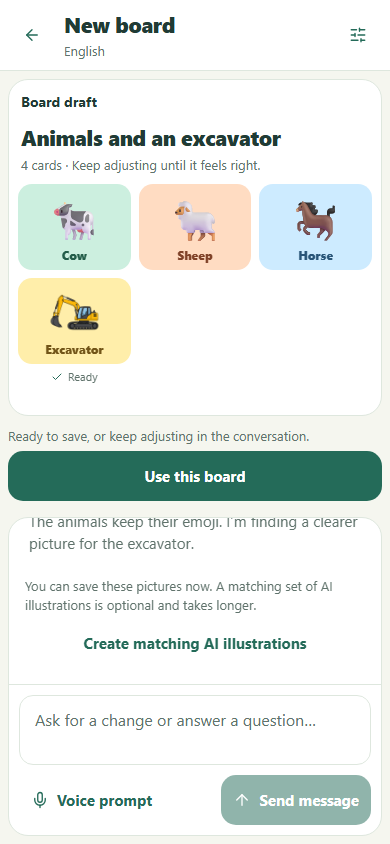
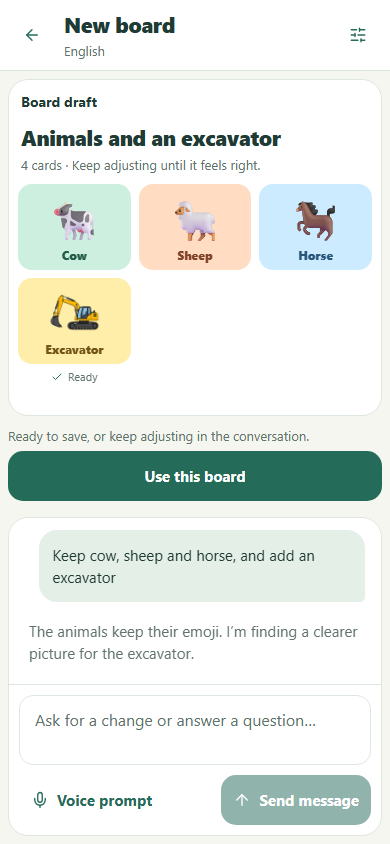
Let complete board drafts stand without AI illustration suggestions

Changed region(s): [[0.0615, 0.6161, 0.9538, 0.8009]]

diff --git a/tests/web/pictures.spec.ts b/tests/web/pictures.spec.ts
@@ -40,7 +40,26 @@ async function mockPictures(page: Page, pending = false) {
 }
 test.beforeEach(async ({ page }) => { await openExistingLibrary(page); });
 
-test('Automatic fills only a gap and offers matching illustrations after the board is ready', async ({ page }) => {
+test('a complete emoji board is ready to save without suggesting AI illustrations', async ({ page }) => {
+  const { jobs } = await mockPictures(page);
+  const proposal = draft();
+  const animals = ['Cow', 'Sheep', 'Horse', 'Pig', 'Chicken', 'Goat'];
+  proposal.proposal.title = 'Farm animals';
+  proposal.proposal.tiles = proposal.proposal.tiles.map((tile, index) => ({ ...tile, label: animals[index], speech: animals[index], emoji: ['🐄', '🐑', '🐎', '🐖', '🐔', '🐐'][index] }));
+  await page.route('**/api/boards/propose', route => route.fulfill({ json: proposal }));
+  await page.route('**/api/pictures/analyze', route => { const input = route.request().postDataJSON(); return route.fulfill({ json: { tiles: input.tiles.map((tile: any) => ({ id: tile.id, emoji: tile.emoji, concept: { description: tile.label, features: [], searchTerms: [tile.label], emojiAccurate: true } })) } }); });
+  await page.getByRole('button', { name: 'New board', exact: true }).click();
+  await page.getByRole('textbox', { name: 'Message to AI', exact: true }).fill('Six farm animals');
+  await page.getByRole('button', { name: 'Send message', exact: true }).click();
+  await expect(page.getByRole('button', { name: 'Use this board', exact: true })).toBeEnabled();
+  await expect(page.getByRole('button', { name: 'Create matching AI illustrations', exact: true })).toHaveCount(0);
+  await expect(page.getByText(/A matching set of AI illustrations/)).toHaveCount(0);
+  expect(jobs).toHaveLength(0);
+  await page.getByRole('button', { name: 'Use this board', exact: true }).click();
+  expect((await library(page)).boards.at(-1).tiles.map((tile: any) => tile.label)).toEqual(animals);
+});
+
+test('Automatic fills only a gap and illustration changes remain available in Picture settings', async ({ page }) => {
   const { jobs } = await mockPictures(page);
   const proposal = draft();
   proposal.proposal.tiles = proposal.proposal.tiles.slice(0, 3).map((tile, index) => ({ ...tile, label: ['Cow', 'Sheep', 'Excavator'][index], speech: ['Cow', 'Sheep', 'Excavator'][index], emoji: ['🐄', '🐑', '🚜'][index] }));
@@ -53,6 +72,13 @@ test('Automatic fills only a gap and offers matching illustrations after the boa
   expect(jobs.map(job => job.concept.description)).toEqual(['Excavator']);
   await expect(page.getByTestId('ai-draft').getByTestId('card-picture')).toHaveCount(1);
   await expect(page.getByTestId('ai-draft')).toContainText('🐄');
+  await expect(page.getByRole('button', { name: 'Create matching AI illustrations', exact: true })).toHaveCount(0);
+  const requestIllustrations = async () => {
+    await page.getByRole('button', { name: 'Picture settings', exact: true }).click();
+    await page.getByRole('button', { name: 'Picture source: Automatic', exact: true }).click();
+    await page.getByRole('button', { name: 'AI illustrations', exact: true }).click();
+    await page.getByRole('button', { name: 'Update draft pictures', exact: true }).click();
+  };
   const held = new Map<string, PictureJobRequest>();
   const hold = async (route: import('@playwright/test').Route) => {
     const job = route.request().postDataJSON();
@@ -66,7 +92,7 @@ test('Automatic fills only a gap and offers matching illustrations after the boa
   };
   await page.route('**/api/pictures/jobs', hold);
   await page.route('**/api/pictures/jobs/*', poll);
-  await page.getByRole('button', { name: 'Create matching AI illustrations', exact: true }).click();
+  await requestIllustrations();
   await expect(page.getByText('Generating illustration', { exact: true }).first()).toBeVisible();
   await expect(page.getByTestId('ai-draft').getByTestId('card-picture')).toHaveCount(1);
   await page.getByRole('button', { name: 'Stop request', exact: true }).click();
@@ -74,7 +100,7 @@ test('Automatic fills only a gap and offers matching illustrations after the boa
   await expect(page.getByTestId('ai-draft').getByTestId('card-picture')).toHaveCount(1);
   await page.unroute('**/api/pictures/jobs', hold);
   await page.unroute('**/api/pictures/jobs/*', poll);
-  await page.getByRole('button', { name: 'Create matching AI illustrations', exact: true }).click();
+  await requestIllustrations();
   await expect(page.getByRole('button', { name: 'Use this board', exact: true })).toBeEnabled();
   expect(jobs.slice(1).map(job => job.mode)).toEqual(['generated', 'generated', 'generated']);
   await expect(page.getByTestId('ai-draft').getByTestId('card-picture')).toHaveCount(3);

diff --git a/scripts/capture-creation-entry-evidence.ts b/scripts/capture-creation-entry-evidence.ts
@@ -37,7 +37,9 @@ try {
     let turns = 0;
     await page.route('**/api/boards/propose', route => {
       const added = ++turns > 1;
-      return route.fulfill({ json: { boardId: null, baseRevision: null, proposal: { title: added ? 'Animals and an excavator' : 'Farm animals', explanation: added ? 'The animals keep their emoji. I’m finding a clearer picture for the excavator.' : 'Here are three farm animals.', needsClarification: false, picturePolicy: { mode: 'auto', style: 'color', consistent: true }, tiles: (added ? ['Cow', 'Sheep', 'Horse', 'Excavator'] : ['Cow', 'Sheep', 'Horse']).map((label, index) => ({ existingId: null, label, speech: label, language: 'en-US', emoji: ['🐄', '🐑', '🐎', '🚜'][index], color: ['sage', 'peach', 'sky', 'butter'][index] })) } } });
+      const labels = added ? ['Cow', 'Sheep', 'Horse', 'Excavator'] : ['Cow', 'Sheep', 'Horse', 'Pig', 'Chicken', 'Goat'];
+      const emoji = added ? ['🐄', '🐑', '🐎', '🚜'] : ['🐄', '🐑', '🐎', '🐖', '🐔', '🐐'];
+      return route.fulfill({ json: { boardId: null, baseRevision: null, proposal: { title: added ? 'Animals and an excavator' : 'Farm animals', explanation: added ? 'The animals keep their emoji. I’m finding a clearer picture for the excavator.' : 'Here are six farm animals.', needsClarification: false, picturePolicy: { mode: 'auto', style: 'color', consistent: true }, tiles: labels.map((label, index) => ({ existingId: null, label, speech: label, language: 'en-US', emoji: emoji[index], color: ['sage', 'peach', 'sky', 'butter', 'rose', 'lilac'][index] })) } } });
     });
     let release!: () => void;
     const pending = new Promise<void>(resolve => { release = resolve; });
@@ -53,6 +55,7 @@ try {
     release();
     if (!before) {
       await expect(page.getByRole('button', { name: 'Use this board', exact: true })).toBeEnabled();
+      await expect(page.getByRole('button', { name: 'Create matching AI illustrations', exact: true })).toHaveCount(0);
       await capture(page, `emoji-ready-${name}`);
       const report = JSON.parse(await readFile('artifacts/picture-evaluation/color/report.json', 'utf8'));
       const index = report.results.findIndex((result: any) => result.label === 'Excavator');
@@ -64,7 +67,7 @@ try {
       await page.route('**/api/pictures/jobs/*', route => route.fulfill({ json: status() }));
       await page.route('**/api/pictures/assets/*.png', route => route.fulfill({ body: bytes, contentType: 'image/png' }));
       await page.route('**/api/pictures/review', route => route.fulfill({ json: { rejected: [] } }));
-      await page.getByRole('textbox', { name: 'Message to AI', exact: true }).fill('Add an excavator');
+      await page.getByRole('textbox', { name: 'Message to AI', exact: true }).fill('Keep cow, sheep and horse, and add an excavator');
       await page.getByRole('button', { name: 'Send message', exact: true }).click();
       await expect(page.getByText('Finding a picture', { exact: true })).toBeVisible();
       await capture(page, `gap-library-search-${name}`);

diff --git a/apps/mobile/src/ui/AiConversation.tsx b/apps/mobile/src/ui/AiConversation.tsx
@@ -207,7 +207,6 @@ export function AiConversation({ settings, board, onApply, onAiUse, onClose }: {
           </View>)}
           {submitted && <View style={{ alignSelf: 'flex-end', maxWidth: '96%', borderRadius: 18, padding: 14, backgroundColor: theme.accentSoft }}><Text style={{ ...styles.body, color: theme.ink }}>{submitted}</Text></View>}
           {busy && busy !== 'save' && <Working key={busy} pictures={Boolean(pictureMessage)} label={busy === 'generate' ? pictureMessage || 'Working on your draft…' : busy === 'transcribe' ? 'Transcribing your recording…' : 'Opening microphone…'} />}
-          {draft && !clarifying && !busy && !recording.recording && !prompt.trim() && !picturesChanged && picturePolicy.mode === 'auto' && preview?.tiles.some(tile => !tile.pictureOptions?.locked && tile.illustration.kind !== 'generated' && tile.illustration.kind !== 'photo' && !tile.pictureOptions?.mode) && <View style={{ gap: 4 }}><Text style={styles.small}>You can save these pictures now. A matching set of AI illustrations is optional and takes longer.</Text><Button kind="ghost" compact onPress={() => void updatePictures({ ...picturePolicy, mode: 'generated' })}>Create matching AI illustrations</Button></View>}
         </ScrollView>
         <View style={{ padding: width < 600 ? 10 : 16, gap: 10, borderTopWidth: 1, borderColor: theme.line }}>
           {Boolean(error) && <Notice>{error}</Notice>}

diff --git a/docs/testing.md b/docs/testing.md
@@ -27,7 +27,7 @@ This opt-in script makes billable backend model calls using the same key resolut
 
 ## Native and deployment checks
 
-Picture unit and browser tests cover ambiguity, gap-only generation, direct first-send and voice actions without an opt-in screen, library-only requests, legacy settings, emoji fallback, immutable downloads, source attribution, draft retention, migration, explained source selectors, keyboard dismissal/focus, and card inheritance. Workspace scenarios check separate manual creation, conversational suggestions, optional matching illustrations, full-page navigation, reload and Back behavior, independently completed pictures, queued versus active indicators, animation across frames and reduced motion, settings during generation, clarification with a retained canvas, and offline playback of fallback boards. Partial previews cannot mutate saved boards or earlier preview snapshots. `npm run eval:pictures -- --generate` is an opt-in billable six-vehicle evaluation that saves pictures and an HTML contact sheet under `artifacts/picture-evaluation/`; inspect the actual output for the required vehicle structures. Run `npm run eval:pictures -- --animals --generate` to prepare a same-label emoji/library/generated comparison with six real Mulberry assets and up to six generated color pictures. Automated model review is evidence to inspect, not a guarantee of semantic correctness. Native checks also include transparent PNG framing, offline restart and picture-save failures.
+Picture unit and browser tests cover ambiguity, gap-only generation, direct first-send and voice actions without an opt-in screen, library-only requests, legacy settings, emoji fallback, immutable downloads, source attribution, draft retention, migration, explained source selectors, keyboard dismissal/focus, and card inheritance. Workspace scenarios check separate manual creation, conversational suggestions, complete emoji boards without illustration prompts, deliberate picture changes through settings, full-page navigation, reload and Back behavior, independently completed pictures, queued versus active indicators, animation across frames and reduced motion, settings during generation, clarification with a retained canvas, and offline playback of fallback boards. Partial previews cannot mutate saved boards or earlier preview snapshots. `npm run eval:pictures -- --generate` is an opt-in billable six-vehicle evaluation that saves pictures and an HTML contact sheet under `artifacts/picture-evaluation/`; inspect the actual output for the required vehicle structures. Run `npm run eval:pictures -- --animals --generate` to prepare a same-label emoji/library/generated comparison with six real Mulberry assets and up to six generated color pictures. Automated model review is evidence to inspect, not a guarantee of semantic correctness. Native checks also include transparent PNG framing, offline restart and picture-save failures.
 
 After both evaluations and a web build, `npx tsx scripts/capture-picture-evidence.ts` captures the construction board, all three animal visualizations, collapsed and expanded source selectors, and editing controls in isolated tablet/phone browser sessions without further AI calls. The [picture evidence index](screenshots/card-pictures/README.md) distinguishes live generated assets, real library artwork, emoji comparisons, automated checks, and physical-device follow-ups. Compare the previous PR commit's control captures with the new selectors; do not present a content comparison as an older application build.
 

diff --git a/docs/screenshots/creation-entry/README.md b/docs/screenshots/creation-entry/README.md
@@ -10,11 +10,13 @@ Captured October 4, 2026 in Chromium at 1280 × 900 (desktop) and 390 × 844 (ph
 | Accurate emoji are ready to save without image jobs | — | [Emoji ready](after/emoji-ready-desktop.png) | [Emoji ready](after/emoji-ready-phone.png) |
 | Only the excavator gap searches for a library picture | — | [Library search](after/gap-library-search-desktop.png) | [Library search](after/gap-library-search-phone.png) |
 | Only that gap generates an illustration after lookup fails | — | [Generating](after/gap-generating-desktop.png) | [Generating](after/gap-generating-phone.png) |
-| Usable mixed board; matching illustrations remain optional | — | [Ready](after/gap-ready-desktop.png) | [Ready](after/gap-ready-phone.png) |
+| Usable mixed board; no illustration suggestion | — | [Ready](after/gap-ready-desktop.png) | [Ready](after/gap-ready-phone.png) |
+
+[Previous illustration suggestion](https://github.com/MChartier/little-say/blob/bac81796235ecef4647f7584d6ecfac6a8b0d80e/docs/screenshots/creation-entry/after/emoji-ready-phone.png) shows the removed prompt. The current emoji-ready captures use six farm animals; both completed emoji and mixed boards now save without this suggestion.
 
 The excavator is a retained real image from the earlier [evaluation](../card-pictures/evaluation.json), verified against its SHA-256 digest before capture. Lookup and generation timing are controlled, so this demonstrates targeted work and status presentation, not live service latency or matching accuracy. [All three sources](../card-pictures/README.md) include actual library artwork alongside emoji and generated pictures.
 
-Validation: 194 unit/service tests, TypeScript, release checks, production builds, and 64 Chromium scenarios passed. The final layout and cancellation adjustments also passed the 20 conversation/picture scenarios. Coverage includes zero picture jobs for accurate emoji, retaining good pictures when another card has a gap, using a library match without generation, phase-aware feedback, and cancelling an optional illustration upgrade while keeping the original draft saveable. Physical-device validation remains outstanding.
+Previous full validation passed 194 unit/service tests and 64 Chromium scenarios. The latest no-suggestion refinement passed TypeScript, a production web build, and all 10 picture browser scenarios, including a six-animal emoji board that saves without any image jobs or illustration prompt. Coverage includes zero picture jobs for accurate emoji, retaining good pictures when another card has a gap, using a library match without generation, phase-aware feedback, and cancelling a settings-requested illustration change while keeping the original draft saveable. Physical-device validation remains outstanding.
 
 ```sh
 npm run build

diff --git a/README.md b/README.md
@@ -23,7 +23,7 @@ The website homepage (`/`) introduces Little Say and its features, with **Coming
 
 - Choose preferred languages on first launch and optionally generate starter boards. Each device keeps its own boards, settings, photos and downloaded speech without an account.
 - **New board** and **Edit with AI** open a full-page conversation beside a live draft canvas, stacked on phones. Pictures appear as they finish, with active and queued cards identified. Review transcripts and drafts, refine them, then explicitly save. Manual editing supports 1–24 cards, searchable emoji, local photos and cropping.
-- **Picture settings** in the workspace header and **Pictures** in the board editor choose automatic, library-only, generated, or emoji-only output. Matching detects inaccurate or ambiguous emoji, searches licensed illustrations, and optionally generates missing pictures in a consistent style. Cards offer **Picture options** to search, describe, replace or protect pictures. Automatic keeps good emoji, fills gaps from the library, and generates only missing pictures. Matching AI illustrations are an optional follow-up. Library only and Emoji only avoid new generation; unavailable pictures fall back to useful emoji. See [pictures, sources and configuration](docs/PICTURES.md).
+- **Picture settings** in the workspace header and **Pictures** in the board editor choose automatic, library-only, generated, or emoji-only output. Matching detects inaccurate or ambiguous emoji, searches licensed illustrations, and optionally generates missing pictures in a consistent style. Cards offer **Picture options** to search, describe, replace or protect pictures. Automatic keeps good emoji, fills gaps from the library, and generates only missing pictures. Completed drafts do not prompt for AI illustrations; deliberate changes remain available in Picture settings. Library only and Emoji only avoid new generation; unavailable pictures fall back to useful emoji. See [pictures, sources and configuration](docs/PICTURES.md).
 - The library spotlights the most recently used board and puts favorites immediately below it. Each board's **…** menu includes deletion and missing-audio generation.
 - Set a board's **Languages** to offer a toggle during play. Individual cards can follow that toggle or keep their own language, useful for family names. Review generated translations or edit them manually.
 - Playback accepts taps and swipes that start or end on a tile. It finishes the current utterance and keeps only the latest queued selection. Touch feedback and the speaking highlight are separate. Hold **Hold to unlock**, release when prompted, then confirm to leave.

diff --git a/docs/DESIGN.md b/docs/DESIGN.md
@@ -24,6 +24,6 @@ Keep photos, user labels, and actual boards visually prominent. Add interface te
 
 ## Pictures
 
-Keep picture controls in parent flows: a workspace header settings button, a board Pictures panel, and expandable card Picture options. Show Picture source as one labeled selector with a current-value explanation. Expand choices vertically with descriptions for Automatic, Library only, AI illustrations, and Emoji only. Do not use wrapping option chips. Keep boolean controls separate as switches, and show the inherited source explicitly on cards. New illustrations use simple color; do not expose a separate style option. Automatic keeps suitable emoji and library pictures and generates only for gaps; library-only and emoji-only sources avoid it. Matching AI illustrations are an optional follow-up after a saveable draft, never an automatic promotion of suitable emoji. Remove the legacy consistency switch. Sending or recording in the workspace starts directly with no opt-in interstitial. Keep photos and explicitly selected pictures stable until the parent includes them in a change.
+Keep picture controls in parent flows: a workspace header settings button, a board Pictures panel, and expandable card Picture options. Show Picture source as one labeled selector with a current-value explanation. Expand choices vertically with descriptions for Automatic, Library only, AI illustrations, and Emoji only. Do not use wrapping option chips. Keep boolean controls separate as switches, and show the inherited source explicitly on cards. New illustrations use simple color; do not expose a separate style option. Automatic keeps suitable emoji and library pictures and generates only for gaps; library-only and emoji-only sources avoid it. Do not suggest AI illustrations on a completed draft: suitable emoji and library pictures are finished output. Deliberate picture changes remain available in Picture settings; only actual gaps need recovery guidance. Remove the legacy consistency switch. Sending or recording in the workspace starts directly with no opt-in interstitial. Keep photos and explicitly selected pictures stable until the parent includes them in a change.
 
 Prepare pictures in a reviewable draft with cancellable progress. Keep the best available emoji when clearer artwork is unavailable and explain fallback in one concise summary. Contain illustrations within the tile so identifying features stay visible; personal photos retain their existing crop treatment. Credits and provider information belong in parent controls. Child playback never starts picture generation or changes saved pictures. See [picture contracts](PICTURES.md).

diff --git a/docs/screenshots/card-pictures/README.md b/docs/screenshots/card-pictures/README.md
@@ -24,7 +24,7 @@ The emoji column retains the reported mapping: two generic trucks, three tractor
 
 ## Controls before and after
 
-The **before** links point to the earlier PR implementation at commit [6a5e3fe](https://github.com/MChartier/little-say/commit/6a5e3fe06f349cbc3c283212b5b56bf236f7d465). The current controls replace wrapping choices with one labeled source field and an explained vertical list. Independent settings use switches. There is no illustration-style selector; new picture work uses color. Automatic generates only for gaps after emoji and library choices. Matching illustrations are an optional follow-up, with no opt-in interstitial. Library only and Emoji only avoid new generation. Prompt settings open from the full-page workspace header; see [live canvas states and the previous modal](../board-workspace/README.md).
+The **before** links point to the earlier PR implementation at commit [6a5e3fe](https://github.com/MChartier/little-say/commit/6a5e3fe06f349cbc3c283212b5b56bf236f7d465). The current controls replace wrapping choices with one labeled source field and an explained vertical list. Independent settings use switches. There is no illustration-style selector; new picture work uses color. Automatic generates only for gaps after emoji and library choices. Picture settings offers deliberate illustration changes; completed drafts do not suggest them. There is no opt-in interstitial. Library only and Emoji only avoid new generation. Prompt settings open from the full-page workspace header; see [live canvas states and the previous modal](../board-workspace/README.md).
 
 | Viewport | Before: wrapping choices | After: collapsed selector | After: explained choices | Card controls | Prompt controls |
 | --- | --- | --- | --- | --- | --- |

diff --git a/docs/PICTURES.md b/docs/PICTURES.md
@@ -10,7 +10,7 @@ Parent settings defines the source defaults for new boards. Automatic includes g
 
 Picture instructions can be given in the message or in **Picture settings**, available from the page header even while work runs. Source changes during a request apply to the next update, never silently changing active jobs. Picture source is one labeled selector with descriptions; selecting a choice or pressing Escape restores keyboard focus. Picture protection uses a separate switch; the old consistency switch is no longer shown. There is no illustration-style selector: new picture work always requests simple color, while existing saved artwork remains intact.
 
-Once an Automatic draft is ready, **Create matching AI illustrations** offers an optional, slower follow-up. Saving is already available; no illustration work starts until this action is chosen. Protected photos and card source overrides remain respected.
+Completed drafts go straight to save or refinement without suggesting AI illustrations. Parents who want different artwork can choose **AI illustrations** in **Picture settings**, then **Update draft pictures**. Unresolved gaps retain the existing fallback summary. Protected photos and card source overrides remain respected.
 
 Use **Update draft pictures** after adjusting conversation controls. Board **Pictures** offers **Improve pictures** and **Restyle board**, with a preview and explicit apply. In each card, **Picture options** supports library search, picture descriptions, source overrides and generation. An inherited card source shows the current board choice. **Keep this picture** protects an individual choice. Library search and selection work without an OpenAI key.
 
